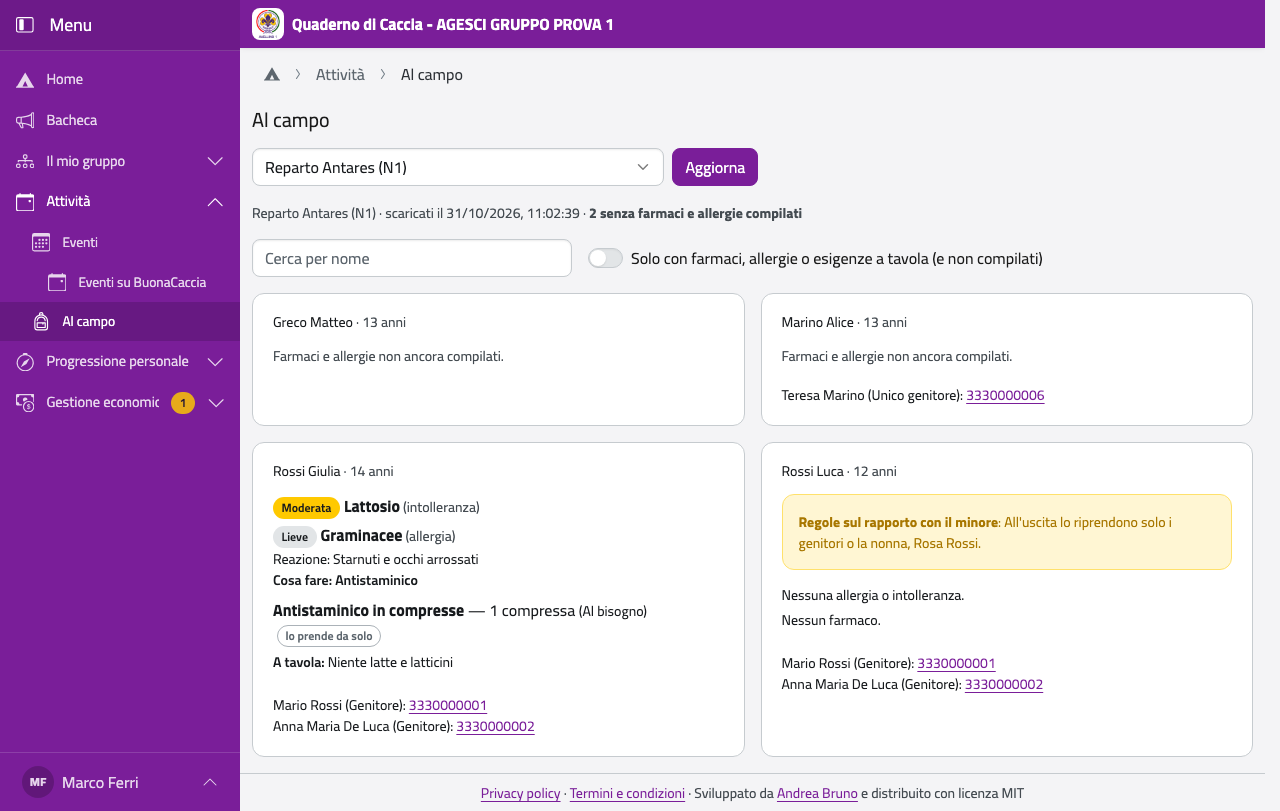
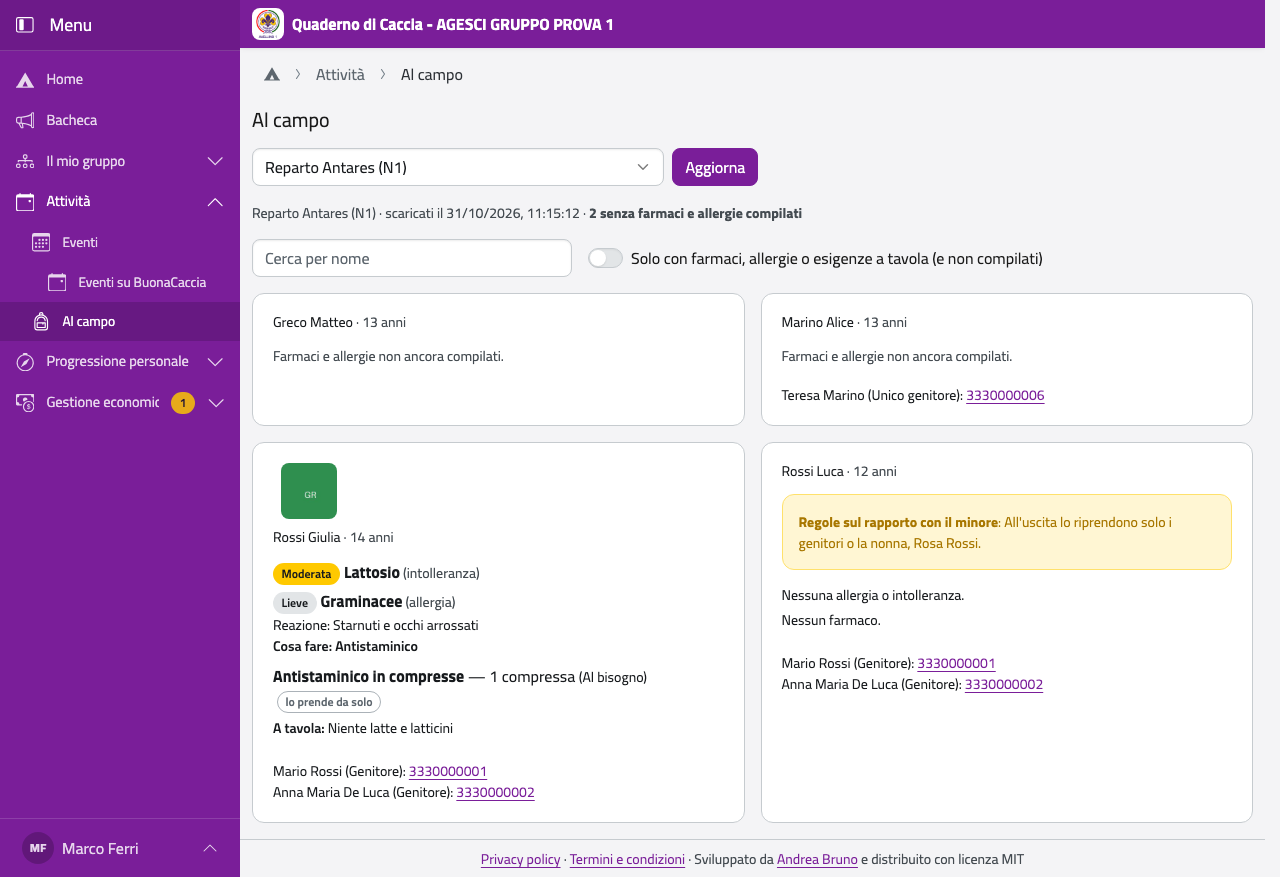
The person page shows the access log and the earlier photos (block M.2)
Both had an API but no page. For the capi (the server says so with two
new fields of the person's detail): «Chi ha visto i dati delicati», every
read, print or download of the person's sensitive data, opened on request
(DEC-101); «Foto precedenti» under the profile photo (DEC-42). Online
only, like the data they are about.

Test data: two invented profile photos of Giulia (coloured squares with
initials). The manual's Persone chapter shows both.

Claude-Session: https://claude.ai/code/session_01FnZgpbBDMjBU393UsQmXgi

diff --git a/frontend/src/components/FotoProfilo.vue b/frontend/src/components/FotoProfilo.vue
@@ -1,13 +1,14 @@
 <script setup lang="ts">
 import { computed, onBeforeUnmount, reactive, ref } from 'vue'
 
-import { api, fotoProfilo, type PersonaDettaglio } from '@/api/qdc'
+import { api, fotoProfilo, type FotoStorica, type PersonaDettaglio } from '@/api/qdc'
 import { useErrore } from '@/composables/useErrore'
 
 // The profile photo, to recognise the ragazzi (DEC-42, DEC-201). The photo is cropped
 // on the device to a square around the person (DEC-205): only that square leaves the
 // phone, so the other people in a group photo are never uploaded. The server reduces it
-// to a JPEG of at most 1 MB without metadata; the earlier photos stay for the capi.
+// to a JPEG of at most 1 MB without metadata; the earlier photos stay for the capi, who
+// open them on request (online only, like the current one).
 const props = defineProps<{ persona: PersonaDettaglio }>()
 const emit = defineEmits<{ cambiata: [persona: PersonaDettaglio] }>()
 const { errore, inCorso, esegui } = useErrore()
@@ -15,6 +16,19 @@ const { errore, inCorso, esegui } = useErrore()
 const LATO = 280 // the square on screen
 const USCITA = 800 // the square uploaded
 const versione = ref(Date.now())
+// The earlier photos, newest first; null until asked for.
+const precedenti = ref<FotoStorica[] | null>(null)
+const data = (iso: string) => new Date(iso).toLocaleDateString('it-IT')
+
+async function mostraPrecedenti() {
+  if (precedenti.value) {
+    precedenti.value = null
+    return
+  }
+  const tutte = await esegui(() => api.storicoFoto(props.persona.id))
+  // The first one is the current photo, already shown.
+  if (tutte) precedenti.value = tutte.slice(1)
+}
 const sorgente = ref<HTMLImageElement | null>(null)
 const url = ref('')
 const stato = reactive({ zoom: 1, x: 0, y: 0 })
@@ -151,6 +165,26 @@ onBeforeUnmount(annulla)
       <p class="small fg-2 mb-0 mt-1">
         Serve ai capi per riconoscere {{ persona.nome }}; non viene pubblicata.
       </p>
+    </div>
+    <div v-if="persona.vede_storico_foto && persona.foto && !sorgente" class="w-100">
+      <button type="button" class="btn btn-sm btn-link px-0" @click="mostraPrecedenti">
+        {{ precedenti ? 'Nascondi le foto precedenti' : 'Foto precedenti' }}
+      </button>
+      <template v-if="precedenti">
+        <p v-if="!precedenti.length" class="small fg-2 mb-0">Nessuna foto precedente.</p>
+        <ul v-else class="list-unstyled d-flex flex-wrap gap-3 mb-0">
+          <li v-for="f in precedenti" :key="f.id" class="small fg-2 text-center">
+            <img
+              :src="`${fotoProfilo(persona.id)}?foto_id=${f.id}`"
+              :alt="`Foto di ${persona.nome} del ${data(f.creata_il)}`"
+              width="72"
+              height="72"
+              class="rounded d-block mb-1"
+            />
+            {{ data(f.creata_il) }}
+          </li>
+        </ul>
+      </template>
     </div>
 
     <div v-if="sorgente" class="w-100">

diff --git a/frontend/src/components/RegistroAccessi.vue b/frontend/src/components/RegistroAccessi.vue
@@ -1,0 +1,53 @@
+<script setup lang="ts">
+import { ref } from 'vue'
+
+import { api, type AccessoSensibile } from '@/api/qdc'
+import { useErrore } from '@/composables/useErrore'
+
+// Who read, printed or downloaded this person's sensitive data (DEC-101): for the
+// Co.Ca., opened on request and online only, like the data it is about.
+const props = defineProps<{ id: number }>()
+const { errore, inCorso, esegui } = useErrore()
+const righe = ref<AccessoSensibile[] | null>(null)
+const quando = (iso: string) =>
+  new Date(iso).toLocaleString('it-IT', { dateStyle: 'short', timeStyle: 'short' })
+
+async function alterna() {
+  if (righe.value) {
+    righe.value = null
+    return
+  }
+  righe.value = (await esegui(() => api.accessiSensibili(props.id))) ?? null
+}
+</script>
+
+<template>
+  <section class="card card-body mb-5">
+    <div class="d-flex flex-wrap align-items-center gap-3">
+      <h2 class="h5 mb-0">Chi ha visto i dati delicati</h2>
+      <button
+        type="button"
+        class="btn btn-sm btn-outline theme-primary ms-auto"
+        :disabled="inCorso"
+        @click="alterna"
+      >
+        {{ righe ? 'Nascondi' : 'Mostra il registro' }}
+      </button>
+    </div>
+    <p class="small fg-2 mb-0 mt-1">
+      Ogni lettura, stampa o scaricamento dei dati delicati resta qui: dati sanitari, regole sul
+      rapporto con il minore, eccezioni sulle squadriglie, moduli firmati, fascicolo completo.
+    </p>
+    <div v-if="errore" class="alert theme-danger small mt-3" role="alert">{{ errore }}</div>
+    <template v-if="righe">
+      <p v-if="!righe.length" class="small fg-2 mt-3 mb-0">Nessun accesso registrato.</p>
+      <ul v-else class="list-group mt-3">
+        <li v-for="(r, n) in righe" :key="n" class="list-group-item small">
+          <strong>{{ quando(r.quando) }}</strong> · {{ r.chi ?? 'sconosciuto' }} ·
+          {{ r.azione }} · {{ r.categoria }}
+          <span v-if="r.dispositivo" class="fg-2"> · {{ r.dispositivo }}</span>
+        </li>
+      </ul>
+    </template>
+  </section>
+</template>

diff --git a/frontend/src/api/qdc.ts b/frontend/src/api/qdc.ts
@@ -242,6 +242,8 @@ export interface PersonaDettaglio extends PersonaBreve {
   /** Profile photo (DEC-201): there is one the user may see; who may upload one. */
   foto?: boolean
   puo_caricare_foto?: boolean
+  vede_storico_foto?: boolean
+  vede_registro_accessi?: boolean
   /** The capi's file (DEC-47, DEC-206), when the person has been a capo. */
   fascicolo_capo?: boolean
 }
@@ -895,6 +897,11 @@ export interface Campo {
   unita: string
   scaricato_il: string
   persone: SchedaCampo[]
+}
+
+export interface FotoStorica {
+  id: number
+  creata_il: string
 }
 
 export interface AccessoSensibile {
@@ -2429,6 +2436,8 @@ export const api = {
   campo: (unita: number) => richiesta<Campo>(`/api/v1/campo/${unita}`),
   accessiSensibili: (persona: number) =>
     richiesta<AccessoSensibile[]>(`/api/v1/persone/${persona}/accessi-sensibili`),
+  storicoFoto: (persona: number) =>
+    richiesta<FotoStorica[]>(`/api/v1/persone/${persona}/foto/storico`),
   dispositivi: (tutti = false) =>
     richiesta<Dispositivo[]>(`/api/v1/dispositivi${tutti ? '?tutti=true' : ''}`),
   registraDispositivo: (dati: { nome: string; id: string | null }) =>

diff --git a/frontend/scripts/schermate.ts b/frontend/scripts/schermate.ts
@@ -549,6 +549,28 @@ const SCENE: Scena[] = [
     },
     intera: true,
   },
+  {
+    // After the camp download and the year's file: their reads are in the log.
+    nome: 'capo/registro-accessi',
+    chi: 'capoReparto',
+    percorso: '/persone',
+    prepara: async (pagina) => {
+      await apri('Rossi Giulia')(pagina)
+      await pagina.getByRole('button', { name: 'Mostra il registro' }).click()
+      await pagina.locator('.list-group-item').first().waitFor()
+    },
+    mostra: 'Chi ha visto i dati delicati',
+  },
+  {
+    nome: 'capo/foto-precedenti',
+    chi: 'capoReparto',
+    percorso: '/persone',
+    prepara: async (pagina) => {
+      await apri('Rossi Giulia')(pagina)
+      await pagina.getByRole('button', { name: 'Foto precedenti' }).click()
+      await pagina.getByText('Nascondi le foto precedenti').waitFor()
+    },
+  },
   { nome: 'capo/attesa', chi: 'capoCerchio', percorso: '/attesa', intera: true },
   { nome: 'capo/richieste', chi: 'capoCerchio', percorso: '/iscrizioni', intera: true },
   // Francesca Gallo is the group treasurer; Laura Bianchi the capogruppo.

diff --git a/frontend/src/views/PersonaView.vue b/frontend/src/views/PersonaView.vue
@@ -11,6 +11,7 @@ import QuotePersona from '@/components/QuotePersona.vue'
 import CartaSanitaria from '@/components/CartaSanitaria.vue'
 import FotoProfilo from '@/components/FotoProfilo.vue'
 import NotePersona from '@/components/NotePersona.vue'
+import RegistroAccessi from '@/components/RegistroAccessi.vue'
 import RegoleRapporto from '@/components/RegoleRapporto.vue'
 import SchedaSanitaria from '@/components/SchedaSanitaria.vue'
 import { useRete } from '@/composables/useRete'
@@ -167,6 +168,7 @@ const formattaData = (iso: string) => new Date(iso).toLocaleDateString('it-IT')
       <TelefonoSquadriglia :id="persona.id" />
       <DerogheSquadriglia :id="persona.id" />
       <AccountPersona :id="persona.id" />
+      <RegistroAccessi v-if="online && persona.vede_registro_accessi" :id="persona.id" />
       <AvviaImpersonazione
         v-if="impersonabile"
         class="mb-5"

diff --git a/backend/apps/core/management/commands/_attivita.py b/backend/apps/core/management/commands/_attivita.py
@@ -59,6 +59,17 @@ class Api:
         return risposta.json()
 
 
+def _foto_di_prova(colore: str, iniziali: str) -> SimpleUploadedFile:
+    """A coloured square with initials: never a real face."""
+    from PIL import Image, ImageDraw
+
+    immagine = Image.new("RGB", (600, 600), colore)
+    ImageDraw.Draw(immagine).text((250, 280), iniziali, fill="white", font_size=96)
+    contenuto = io.BytesIO()
+    immagine.save(contenuto, "JPEG")
+    return SimpleUploadedFile("foto.jpg", contenuto.getvalue(), "image/jpeg")
+
+
 def _pdf_di_prova(testo: str, nome: str = "liberatoria.pdf") -> SimpleUploadedFile:
     """A one-page PDF standing for a real form (no real model is copied)."""
     from reportlab.pdfgen.canvas import Canvas
@@ -348,6 +359,10 @@ def crea_attivita(email) -> None:
             "mete": [meta],
         },
     )
+    # Two profile photos of Giulia: the capi see the earlier one too (DEC-42).
+    capo_reparto.carica(f"/persone/{giulia}/foto", _foto_di_prova("#3d63ad", "GR"))
+    capo_reparto.carica(f"/persone/{giulia}/foto", _foto_di_prova("#2f8f4e", "GR"))
+
     # Under way, so that the guida can say she is ready for the verification.
     impegno = scheda["impegni"][-1]["id"]
     capo_reparto("post", f"/progressione/impegni/{impegno}/concorda", {})

diff --git a/backend/apps/anagrafica/api.py b/backend/apps/anagrafica/api.py
@@ -58,6 +58,9 @@ class PersonaDettaglio(Schema):
     # Profile photo (DEC-42, DEC-201): whether there is one the caller may see.
     foto: bool = False
     puo_caricare_foto: bool = False
+    # The capi see the earlier photos (DEC-42) and who read the sensitive data (DEC-101).
+    vede_storico_foto: bool = False
+    vede_registro_accessi: bool = False
     # The capi's file (DEC-47, DEC-206), when the person has been a capo.
     fascicolo_capo: bool = False
 
@@ -104,6 +107,8 @@ def dettaglio_persona(request, persona_id: int):
         }
     dati["foto"] = policy.puo_vedere_foto(request.auth, persona) and persona.foto_profilo.exists()
     dati["puo_caricare_foto"] = policy.puo_caricare_foto(request.auth, persona)
+    dati["vede_storico_foto"] = policy.vede_storico_foto(request.auth, persona)
+    dati["vede_registro_accessi"] = policy.puo_vedere_registro_accessi(request.auth)
     dati["fascicolo_capo"] = policy.puo_vedere_fascicolo_capo(request.auth, persona)
     return dati
 

diff --git a/backend/tests/test_sanitaria.py b/backend/tests/test_sanitaria.py
@@ -113,6 +113,15 @@ def test_scarico_per_il_campo_negato_ai_ragazzi(csq, reparto):
     assert client.get(f"/api/v1/campo/{reparto.pk}").status_code == 403
 
 
+def test_la_scheda_dice_chi_vede_registro_e_foto_precedenti(capo, genitore, ragazza):
+    """The person page shows the access log and the earlier photos to the capi only."""
+    del_capo = _client(capo).get(f"/api/v1/persone/{ragazza.pk}").json()
+    del_genitore = _client(genitore).get(f"/api/v1/persone/{ragazza.pk}").json()
+    assert del_capo["vede_registro_accessi"] and del_capo["vede_storico_foto"]
+    assert not del_genitore["vede_registro_accessi"]
+    assert not del_genitore["vede_storico_foto"]
+
+
 def test_registro_accessi_solo_ai_capi(capo, genitore, ragazza):
     _client(genitore).get(f"/api/v1/persone/{ragazza.pk}/sanitarie")
     righe = _client(capo).get(f"/api/v1/persone/{ragazza.pk}/accessi-sensibili").json()

diff --git a/TODO.md b/TODO.md
@@ -187,7 +187,7 @@ Richiesta del maintainer del 31/10: correggerle. Un commit per blocco; il manual
 | # | Attività | Rif. | Stato |
 | --- | --- | --- | --- |
 | M.1 | Piccole correzioni: la ricevuta di un pagamento dall'estratto conto parte per email come le altre; l'amministratore tecnico vede «Tutti i dispositivi del gruppo»; descrizione di «Impostazioni» nel menu; percorso in alto nelle pagine dei ragazzi | DEC-84, DEC-222, DEC-23, DEC-244 | ✅ 31/10 (provato nel browser con le schermate: sentiero dei ragazzi, Carta di clan della scolta, passaggi) |
-| M.2 | Scheda della persona: registro degli accessi ai dati delicati e foto precedenti, per i capi | DEC-101, DEC-42 | 🚧 |
+| M.2 | Scheda della persona: registro degli accessi ai dati delicati e foto precedenti, per i capi | DEC-101, DEC-42 | ✅ 31/10 (provato nel browser; nei dati di prova due foto inventate di Giulia) |
 | M.3 | Correggere le date di una tappa (inizio, riconoscimento, distintivo) con il motivo | DEC-171…DEC-173 | ⏳ |
 | M.4 | Modificare un evento | DEC-75, DEC-79 | ⏳ |
 | M.5 | Delega delle riunioni di squadriglia da parte dello staff: la regola del codice (`puo_delegare`) lo permette, l'analisi (DEC-139) dà la delega solo al capo squadriglia: da decidere con il maintainer | DEC-139, DEC-14 | ❓ |
@@ -198,8 +198,6 @@ Elenco originale (31/10):
 - un evento creato non si modifica dall'app (l'API c'è, nessuna pagina la usa): il manuale dice di annullarlo e crearne uno nuovo;
 - lo staff del reparto può delegare le riunioni di squadriglia (regola `puo_delegare`), ma il riquadro è solo in «La mia squadriglia», che vedono i ragazzi;
 - la data di una tappa (inizio, riconoscimento, distintivo) non si corregge dall'app, solo Promessa e firma della Carta di clan;
-- il registro degli accessi ai dati sensibili di una persona non ha una pagina;
-- le foto precedenti di una persona (le vedono i capi) non hanno una pagina: l'API c'è;
 - un pagamento registrato dall'estratto conto ha la ricevuta ma non parte l'email alla famiglia (si manda con «Invia di nuovo»);
 - l'amministratore tecnico può scollegare i dispositivi altrui (regola) ma non vede l'interruttore «Tutti i dispositivi del gruppo»;
 - la descrizione di «Impostazioni» nel menu («Nome e titolo del sito, intestazione delle stampe») non dice di pagamenti, email e pagine legali;

diff --git a/docs/manuale/capo/persone.md b/docs/manuale/capo/persone.md
@@ -25,7 +25,12 @@ li correggono solo i capigruppo.
 La foto serve a riconoscere il ragazzo, per esempio nelle iscrizioni su BuonaCaccia. Per i
 ragazzi della tua unità tocca **Aggiungi una foto** (o **Cambia la foto**), ritaglia in
 modo che nel riquadro ci sia solo lui o lei e tocca **Salva la foto**. Le foto precedenti
-restano visibili ai capi.
+restano per i capi: tocca **Foto precedenti** per vederle, con la data.
+
+:::{container} schermate
+![Le foto precedenti di Giulia sul telefono](../img/capo/foto-precedenti-telefono.png){.telefono width="30%"}
+![Le foto precedenti di Giulia sul computer](../img/capo/foto-precedenti-computer.png){.computer width="65%"}
+:::
 
 ## Il telefono in squadriglia
 
@@ -46,6 +51,19 @@ Gli inviti li mandano il capo unità e i capigruppo.
 4. Tocca **Invia invito**.
 
 L'invito vale 14 giorni; finché non viene usato lo puoi **annullare**.
+
+## Chi ha visto i dati delicati
+
+In fondo alla scheda, **Chi ha visto i dati delicati** è il registro di ogni lettura, stampa
+o scaricamento dei suoi dati delicati: dati sanitari, regole sul rapporto con il minore,
+eccezioni sulle squadriglie, moduli firmati, fascicolo completo. Tocca **Mostra il
+registro**: per ognuno vedi quando, chi, cosa ha fatto e da quale dispositivo. Lo vedono i
+capi; ai genitori, se lo chiedono, lo mostrano i capigruppo (è anche nel fascicolo completo).
+
+:::{container} schermate
+![Il registro degli accessi sul telefono](../img/capo/registro-accessi-telefono.png){.telefono width="30%"}
+![Il registro degli accessi sul computer](../img/capo/registro-accessi-computer.png){.computer width="65%"}
+:::
 
 :::{container} schermate
 ![L'invito di un ragazzo sul telefono](../img/capo/invito-telefono.png){.telefono width="30%"}
